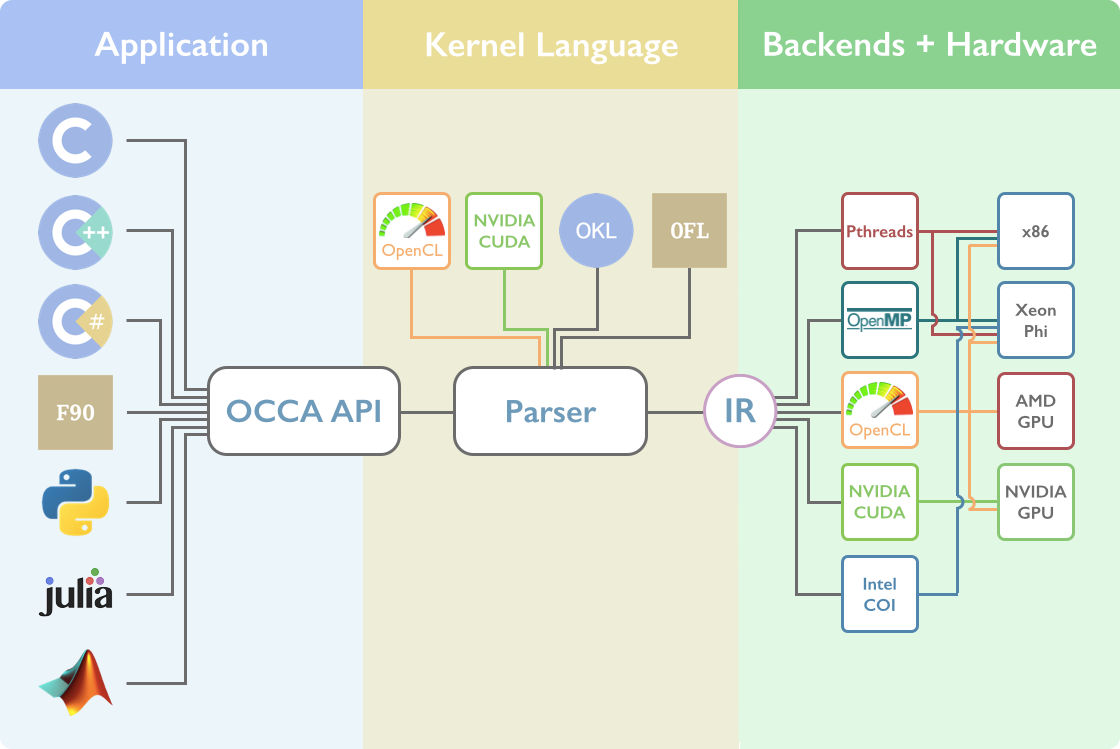
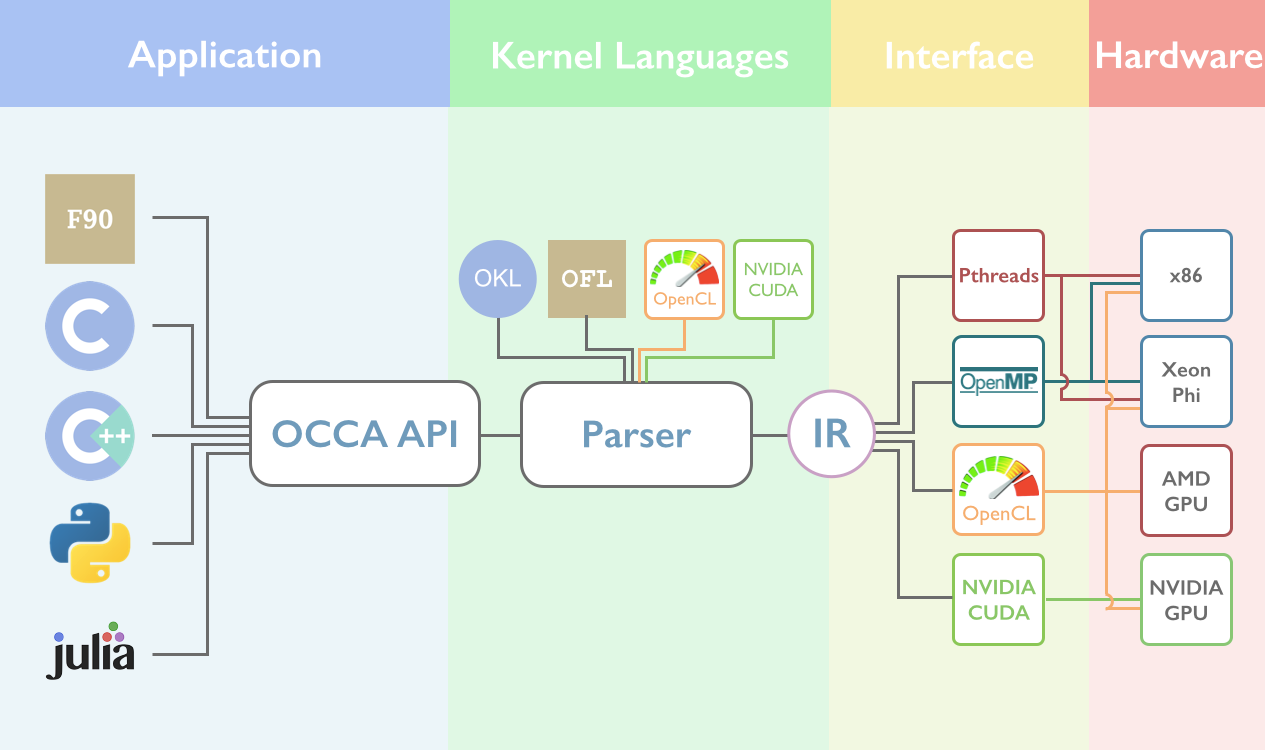
[Projects] Updated OCCA image

diff --git a/index.html b/index.html
@@ -10,4 +10,4 @@ document.write('<script src="' + jQuery + '"><\/script>');
     }());
 </script><script type="text/javascript" src="/library/js/jquery.min.js"></script><script type="text/javascript" src="/library/js/jquery.history.min.js"></script><script type="text/javascript" src="/library/semantic/semantic.min.js"></script><script type="text/javascript" src="/library/highlight/highlight.pack.js"></script><script>hljs.initHighlightingOnLoad();
 </script><script type="text/javascript" src="/js/tools.js?v=1"></script><script type="text/javascript" src="/js/gl.js?v=1"></script><script type="text/javascript" src="/js/main.js?v=2"></script><script>applyMini($(window));
-</script></head><body><div id="id_bodyWrapper"><div id="id_bodyWrapper2"><div id="id_body" class="fixed body"><h2 class="ui dividing header"><img src="/images/profile/david.jpg?v=1" class="ui rounded image avatar">David Medina &nbsp; | &nbsp;<div style="position: relative; display: inline-block; height: 30px; width: 220px; font-size: 20px;"><div style="position: absolute; top: 2px;"><span style="color: #2BB399" class="highlight">Vacation</span> &nbsp; <span style="color: #2BB399" class="highlight">(•̀ᴗ•́)و ̑</span></div></div><div class="contact info"><a href="mailto:dmed256@gmail.com?Subject=Hi" tooltip="Email" class="tooltip"><i class="large mail outline link icon"></i></a><a href="https://github.com/dmed256" tooltip="Github" class="tooltip"><i class="large github square link icon"></i></a><a href="https://twitter.com/dmed256?&gt;" tooltip="Twitter" class="tooltip"><i class="large twitter outline link icon"></i></a><a href="http://www.linkedin.com/in/dmed256" tooltip="LinkedIn" class="tooltip"><i class="large linkedin square sign link icon"></i></a></div></h2><div class="sidebar"><img src="/images/profile/david.jpg?v=1" style="width: 200px; border-radius: 20px; margin: auto" class="ui rounded image"><h4 style="margin-bottom: 10px" class="ui dividing header">About me</h4>I'm really passionate about <span style="color: #2BB399" class="highlight">coding</span> and like to get out of my comfort zone for learning and producing neat stuff<br><br>I've been lucky to work with an awesome advisor, <a href="http://tcew.github.io/" class="link">Professor Warburton</a>, and folks from national labs (LLNL, ANL)<h4 style="margin-bottom: 10px" class="ui dividing header">Projects</h4>I'm currently focusing on <a href="http://libocca.org/" class="link">OCCA</a><h4 style="margin-bottom: 10px" class="ui dividing header">Contact Info</h4>If anything I do is interesting to you, it would make my day to chat about it!<div style="width: 200px; margin: auto; padding: 20px 0 20px 0; text-align: center"><a href="mailto:dmed256@gmail.com?Subject=Hi" tooltip="Email" class="tooltip"><i class="large mail outline link icon"></i></a><a href="https://github.com/dmed256" tooltip="Github" class="tooltip"><i class="large github square link icon"></i></a><a href="https://twitter.com/dmed256?&gt;" tooltip="Twitter" class="tooltip"><i class="large twitter outline link icon"></i></a><a href="http://www.linkedin.com/in/dmed256" tooltip="LinkedIn" class="tooltip"><i class="large linkedin square sign link icon"></i></a></div></div><div id="id_bodyContainer" class="container"><div id="id_bodyHeader"><div class="ui tabular menu main"><a data-tab="blog" class="item active">Blog</a><a data-tab="events" class="item">Events</a><a data-tab="upcoming" class="item">Upcoming</a><a data-tab="projects" class="item">Projects</a></div></div><div id="id_bodyTopShadow"></div><div id="id_bodyTLShadowCorner"></div><div data-tab="blog" class="ui tab"><div class="tabBodyContainer2"><div class="tabBodyContainer"><div class="feed ui raised segment orange"><div class="container"><div class="ui ribbon label">July 6</div><h4 class="ui dividing header">0x001: Programming Padawan</h4></div><div style="max-height: 9999999px"> Video games were my inspiration for learning how to program. Excited about making the next Final Fantasy or World of Warcraft, I took one of the <span style="color: #2BB399" class="highlight">&quot;Computer Science 101&quot;</span> classes during my undergraduate studies. Oh man was that a let down (゜-゜).<br><a href="/posts/0x001/post" class="link">Read More . . .</a></div><div class="corner"></div></div><div id="id_endOfBlog"></div></div></div></div><div data-tab="events" class="ui tab"><div class="tabBodyContainer2"><div class="tabBodyContainer"><div class="feed ui raised segment green"><div class="container"><div class="ui ribbon label">June 1 - July 11</div><h4 class="ui dividing header">Visiting Researcher at LLNL</h4></div><div style="max-height: 9999999px">Continue working on OCCA (thesis work) and collaborate with LLNL guys in ASQ/CASC.</div><div class="corner"></div></div><div class="feed ui raised segment gray"><div class="container"><div class="ui ribbon label">May 26</div><h4 class="ui dividing header">PhD Defense</h4></div><div style="max-height: 9999999px">OKL: A Unified Language for Parallel Architectures</div><div class="corner"></div></div><div class="feed ui raised segment purple"><div class="container"><div class="ui ribbon label">May 7</div><h4 class="ui dividing header">Visit to Sandia National Lab: Seminar Talk</h4></div><div style="max-height: 9999999px">OKL: A Unified Language for Parallel Architectures</div><div class="corner"></div></div><div class="feed ui raised segment purple"><div class="container"><div class="ui ribbon label">March 14-15</div><h4 class="ui dividing header">SIAM CSE '15: Talk + Poster</h4></div><div style="max-height: 9999999px">OCCA: An Extensible Portability Layer for Many-core Programming (<a href='/pdfs/talks/cse15.pdf' class='link'>PDF</a>)</div><div class="corner"></div></div><div class="feed ui raised segment purple"><div class="container"><div class="ui ribbon label">March 04-05</div><h4 class="ui dividing header">Rice Oil &amp; Gas 2015: OCCA Tutorial + Talk</h4></div><div style="max-height: 9999999px">OCCA: Portability Layer for Many-core Thread Programming<br>Links to the: <a href='http://libocca.org/talks/riceOG15.pdf' class='link'>Slides</a>, <a href='https://github.com/tcew/OG15' class='link'>Source Code</a></div><div class="corner"></div></div><div class="feed ui raised segment blue"><div class="container"><div class="ui ribbon label">March 03</div><h4 class="ui dividing header">OCCA Tutorials 02: Unified Virtual Address + Managed Memory + Shared Memory</h4></div><div style="max-height: 9999999px"><div class="youtubeContainer2"><div class="youtubeContainer"><iframe src="https://www.youtube.com/embed/9uiw3hzGCl4?autohide=1&amp;controls=1&amp;showinfo=0" allowfullscreen="allowfullscreen" frameborder="0" class="youtube"></iframe></div></div></div><div class="corner"></div></div><div class="feed ui raised segment blue"><div class="container"><div class="ui ribbon label">February 28</div><h4 class="ui dividing header">OCCA Tutorials 01: Installation + Introduction</h4></div><div style="max-height: 9999999px"><div class="youtubeContainer2"><div class="youtubeContainer"><iframe src="https://www.youtube.com/embed/XYf73mqQBLE?autohide=1&amp;controls=1&amp;showinfo=0" allowfullscreen="allowfullscreen" frameborder="0" class="youtube"></iframe></div></div></div><div class="corner"></div></div><div class="feed ui raised segment purple"><div class="container"><div class="ui ribbon label">February 11</div><h4 class="ui dividing header">Visit to Chevron: Talk</h4></div><div style="max-height: 9999999px">OKL: A Unified Language for Parallel Architectures</div><div class="corner"></div></div><div class="feed ui raised segment gray"><div class="container"><div class="ui ribbon label">February 04</div><h4 class="ui dividing header">PhD Proposal</h4></div><div style="max-height: 9999999px">OKL: A Unified Language for Parallel Architectures</div><div class="corner"></div></div><div class="ui horizontal divider feedDivider">2015</div><div class="feed ui raised segment purple"><div class="container"><div class="ui ribbon label">June 24</div><h4 class="ui dividing header">ICOSAHOM '14: Talk</h4></div><div style="max-height: 9999999px">OCCA: A Unified Approach to Multi-Threading Languages</div><div class="corner"></div></div><div class="feed ui raised segment green"><div class="container"><div class="ui ribbon label">May - August</div><h4 class="ui dividing header">Summer Internship at Shell</h4></div><div style="max-height: 9999999px"><div style="margin-bottom: 5px" class="ui list"><div class="item"><div class="blue bullet"></div>Optimized finite difference codes on multiple architectures (OpenMP, OpenCL, CUDA)</div><div class="item"><div class="blue bullet"></div>Investigated hybrid kernels with portable performance across varying architectures</div></div></div><div class="corner"></div></div><div class="feed ui raised segment gray"><div class="container"><div class="ui ribbon label">April 23</div><h4 class="ui dividing header">Master Thesis Defense</h4></div><div style="max-height: 9999999px">OCCA: A Unified Approach to Multi-Threading Languages (<a href='/pdfs/papers/masters.pdf' class='link'>PDF</a>)</div><div class="corner"></div></div><div class="feed ui raised segment purple"><div class="container"><div class="ui ribbon label">March 06</div><h4 class="ui dividing header">Rice Oil &amp; Gas Workshop '14: Poster</h4></div><div style="max-height: 9999999px">OCCA: A Unified Approach to Multi-Threading Languages</div><div class="corner"></div></div><div class="ui horizontal divider feedDivider">2014</div><div class="feed ui raised segment green"><div class="container"><div class="ui ribbon label">May - August</div><h4 class="ui dividing header">Summer Internship at Shell</h4></div><div style="max-height: 9999999px">Worked on numerical methods in parallel architectures (OpenMP, OpenCL, CUDA)</div><div class="corner"></div></div><div class="feed ui raised segment gray"><div class="container"><div class="ui ribbon label">January</div><h4 class="ui dividing header">PASI: Workshop on Tsunami Modeling (NSF/DOE-Funded Travel Grant)</h4></div><div style="max-height: 9999999px"><div style="margin-bottom: 5px" class="ui list"><div class="item"><div class="blue bullet"></div>Attended multiple workshops and talks about tsunami modeling</div><div class="item"><div class="blue bullet"></div>Lab co-coordinator to teach OpenCL/OpenGL interop for applying and visualizing finite difference simulations</div></div></div><div class="corner"></div></div><div class="ui horizontal divider feedDivider">2013</div></div></div></div><div data-tab="upcoming" class="ui tab"><div class="tabBodyContainer2"><div class="tabBodyContainer"><div class="feed ui raised segment green"><div class="container"><div class="ui ribbon label">August 3</div><h4 class="ui dividing header">Two Sigma</h4></div><div style="max-height: 9999999px">Start working =)</div><div class="corner"></div></div></div></div></div><div data-tab="projects" class="ui tab"><div class="tabBodyContainer2"><div class="tabBodyContainer"><div style="padding: 0px 40px 0px 40px; max-height: 9999999px;"><h2 class="ui dividing header"><a href="http://libocca.org/" class="link">OCCA</a></h2><a href="http://libocca.org"><img src="/images/projects/occa/occaFlow.png" style="display: block; max-width: 700px; width: 100%; height: auto; margin: auto;"></a><div class="indent1"><div style="line-height: 20px"><br></div><span style="color: #2BB399" class="highlight">OCCA</span> is an open-source (<span style="color: #2BB399" class="highlight">MIT license</span>) library used to program current multi-core/many-core architectures.Devices (such as <span style="color: #CF8BC7" class="highlight">CPUs, GPUs, Intel's Xeon Phi, FPGAs</span>, etc) are abstracted using an offload-model for application development and programming for the devices is done through a C-based (<span style="color: #2BB399" class="highlight">OKL</span>) or Fortran-based kernel language (<span style="color: #2BB399" class="highlight">OFL</span>).OCCA gives developers the ability to target devices at run-time by using run-time compilation for device kernels.</div></div><br></div></div></div><div id="id_bodyBLShadowCorner"></div><div id="id_bodyBottomShadow"></div></div></div></div></div><div id="id_footerWrapper"><div id="id_footer"><div id="id_footerName"><a href="/" class="link">David S Medina</a></div><div id="id_footerInfo">&nbsp&nbsp|&nbsp <span style="color: #2BB399" class="highlight">Ping me</span><a href="mailto:dmed256@gmail.com?Subject=Hi" tooltip="Email" class="tooltip"><i class="large mail outline link icon"></i></a><a href="https://github.com/dmed256" tooltip="Github" class="tooltip"><i class="large github square link icon"></i></a><a href="https://twitter.com/dmed256?&gt;" tooltip="Twitter" class="tooltip"><i class="large twitter outline link icon"></i></a><a href="http://www.linkedin.com/in/dmed256" tooltip="LinkedIn" class="tooltip"><i class="large linkedin square sign link icon"></i></a></div></div></div></body></html>
+</script></head><body><div id="id_bodyWrapper"><div id="id_bodyWrapper2"><div id="id_body" class="fixed body"><h2 class="ui dividing header"><img src="/images/profile/david.jpg?v=1" class="ui rounded image avatar">David Medina &nbsp; | &nbsp;<div style="position: relative; display: inline-block; height: 30px; width: 220px; font-size: 20px;"><div style="position: absolute; top: 2px;"><span style="color: #2BB399" class="highlight">Vacation</span> &nbsp; <span style="color: #2BB399" class="highlight">(•̀ᴗ•́)و ̑</span></div></div><div class="contact info"><a href="mailto:dmed256@gmail.com?Subject=Hi" tooltip="Email" class="tooltip"><i class="large mail outline link icon"></i></a><a href="https://github.com/dmed256" tooltip="Github" class="tooltip"><i class="large github square link icon"></i></a><a href="https://twitter.com/dmed256?&gt;" tooltip="Twitter" class="tooltip"><i class="large twitter outline link icon"></i></a><a href="http://www.linkedin.com/in/dmed256" tooltip="LinkedIn" class="tooltip"><i class="large linkedin square sign link icon"></i></a></div></h2><div class="sidebar"><img src="/images/profile/david.jpg?v=1" style="width: 200px; border-radius: 20px; margin: auto" class="ui rounded image"><h4 style="margin-bottom: 10px" class="ui dividing header">About me</h4>I'm really passionate about <span style="color: #2BB399" class="highlight">coding</span> and like to get out of my comfort zone for learning and producing neat stuff<br><br>I've been lucky to work with an awesome advisor, <a href="http://tcew.github.io/" class="link">Professor Warburton</a>, and folks from national labs (LLNL, ANL)<h4 style="margin-bottom: 10px" class="ui dividing header">Projects</h4>I'm currently focusing on <a href="http://libocca.org/" class="link">OCCA</a><h4 style="margin-bottom: 10px" class="ui dividing header">Contact Info</h4>If anything I do is interesting to you, it would make my day to chat about it!<div style="width: 200px; margin: auto; padding: 20px 0 20px 0; text-align: center"><a href="mailto:dmed256@gmail.com?Subject=Hi" tooltip="Email" class="tooltip"><i class="large mail outline link icon"></i></a><a href="https://github.com/dmed256" tooltip="Github" class="tooltip"><i class="large github square link icon"></i></a><a href="https://twitter.com/dmed256?&gt;" tooltip="Twitter" class="tooltip"><i class="large twitter outline link icon"></i></a><a href="http://www.linkedin.com/in/dmed256" tooltip="LinkedIn" class="tooltip"><i class="large linkedin square sign link icon"></i></a></div></div><div id="id_bodyContainer" class="container"><div id="id_bodyHeader"><div class="ui tabular menu main"><a data-tab="blog" class="item active">Blog</a><a data-tab="events" class="item">Events</a><a data-tab="upcoming" class="item">Upcoming</a><a data-tab="projects" class="item">Projects</a></div></div><div id="id_bodyTopShadow"></div><div id="id_bodyTLShadowCorner"></div><div data-tab="blog" class="ui tab"><div class="tabBodyContainer2"><div class="tabBodyContainer"><div class="feed ui raised segment orange"><div class="container"><div class="ui ribbon label">July 6</div><h4 class="ui dividing header">0x001: Programming Padawan</h4></div><div style="max-height: 9999999px"> Video games were my inspiration for learning how to program. Excited about making the next Final Fantasy or World of Warcraft, I took one of the <span style="color: #2BB399" class="highlight">&quot;Computer Science 101&quot;</span> classes during my undergraduate studies. Oh man was that a let down (゜-゜).<br><a href="/posts/0x001/post" class="link">Read More . . .</a></div><div class="corner"></div></div><div id="id_endOfBlog"></div></div></div></div><div data-tab="events" class="ui tab"><div class="tabBodyContainer2"><div class="tabBodyContainer"><div class="feed ui raised segment green"><div class="container"><div class="ui ribbon label">June 1 - July 11</div><h4 class="ui dividing header">Visiting Researcher at LLNL</h4></div><div style="max-height: 9999999px">Continue working on OCCA (thesis work) and collaborate with LLNL guys in ASQ/CASC.</div><div class="corner"></div></div><div class="feed ui raised segment gray"><div class="container"><div class="ui ribbon label">May 26</div><h4 class="ui dividing header">PhD Defense</h4></div><div style="max-height: 9999999px">OKL: A Unified Language for Parallel Architectures</div><div class="corner"></div></div><div class="feed ui raised segment purple"><div class="container"><div class="ui ribbon label">May 7</div><h4 class="ui dividing header">Visit to Sandia National Lab: Seminar Talk</h4></div><div style="max-height: 9999999px">OKL: A Unified Language for Parallel Architectures</div><div class="corner"></div></div><div class="feed ui raised segment purple"><div class="container"><div class="ui ribbon label">March 14-15</div><h4 class="ui dividing header">SIAM CSE '15: Talk + Poster</h4></div><div style="max-height: 9999999px">OCCA: An Extensible Portability Layer for Many-core Programming (<a href='/pdfs/talks/cse15.pdf' class='link'>PDF</a>)</div><div class="corner"></div></div><div class="feed ui raised segment purple"><div class="container"><div class="ui ribbon label">March 04-05</div><h4 class="ui dividing header">Rice Oil &amp; Gas 2015: OCCA Tutorial + Talk</h4></div><div style="max-height: 9999999px">OCCA: Portability Layer for Many-core Thread Programming<br>Links to the: <a href='http://libocca.org/talks/riceOG15.pdf' class='link'>Slides</a>, <a href='https://github.com/tcew/OG15' class='link'>Source Code</a></div><div class="corner"></div></div><div class="feed ui raised segment blue"><div class="container"><div class="ui ribbon label">March 03</div><h4 class="ui dividing header">OCCA Tutorials 02: Unified Virtual Address + Managed Memory + Shared Memory</h4></div><div style="max-height: 9999999px"><div class="youtubeContainer2"><div class="youtubeContainer"><iframe src="https://www.youtube.com/embed/9uiw3hzGCl4?autohide=1&amp;controls=1&amp;showinfo=0" allowfullscreen="allowfullscreen" frameborder="0" class="youtube"></iframe></div></div></div><div class="corner"></div></div><div class="feed ui raised segment blue"><div class="container"><div class="ui ribbon label">February 28</div><h4 class="ui dividing header">OCCA Tutorials 01: Installation + Introduction</h4></div><div style="max-height: 9999999px"><div class="youtubeContainer2"><div class="youtubeContainer"><iframe src="https://www.youtube.com/embed/XYf73mqQBLE?autohide=1&amp;controls=1&amp;showinfo=0" allowfullscreen="allowfullscreen" frameborder="0" class="youtube"></iframe></div></div></div><div class="corner"></div></div><div class="feed ui raised segment purple"><div class="container"><div class="ui ribbon label">February 11</div><h4 class="ui dividing header">Visit to Chevron: Talk</h4></div><div style="max-height: 9999999px">OKL: A Unified Language for Parallel Architectures</div><div class="corner"></div></div><div class="feed ui raised segment gray"><div class="container"><div class="ui ribbon label">February 04</div><h4 class="ui dividing header">PhD Proposal</h4></div><div style="max-height: 9999999px">OKL: A Unified Language for Parallel Architectures</div><div class="corner"></div></div><div class="ui horizontal divider feedDivider">2015</div><div class="feed ui raised segment purple"><div class="container"><div class="ui ribbon label">June 24</div><h4 class="ui dividing header">ICOSAHOM '14: Talk</h4></div><div style="max-height: 9999999px">OCCA: A Unified Approach to Multi-Threading Languages</div><div class="corner"></div></div><div class="feed ui raised segment green"><div class="container"><div class="ui ribbon label">May - August</div><h4 class="ui dividing header">Summer Internship at Shell</h4></div><div style="max-height: 9999999px"><div style="margin-bottom: 5px" class="ui list"><div class="item"><div class="blue bullet"></div>Optimized finite difference codes on multiple architectures (OpenMP, OpenCL, CUDA)</div><div class="item"><div class="blue bullet"></div>Investigated hybrid kernels with portable performance across varying architectures</div></div></div><div class="corner"></div></div><div class="feed ui raised segment gray"><div class="container"><div class="ui ribbon label">April 23</div><h4 class="ui dividing header">Master Thesis Defense</h4></div><div style="max-height: 9999999px">OCCA: A Unified Approach to Multi-Threading Languages (<a href='/pdfs/papers/masters.pdf' class='link'>PDF</a>)</div><div class="corner"></div></div><div class="feed ui raised segment purple"><div class="container"><div class="ui ribbon label">March 06</div><h4 class="ui dividing header">Rice Oil &amp; Gas Workshop '14: Poster</h4></div><div style="max-height: 9999999px">OCCA: A Unified Approach to Multi-Threading Languages</div><div class="corner"></div></div><div class="ui horizontal divider feedDivider">2014</div><div class="feed ui raised segment green"><div class="container"><div class="ui ribbon label">May - August</div><h4 class="ui dividing header">Summer Internship at Shell</h4></div><div style="max-height: 9999999px">Worked on numerical methods in parallel architectures (OpenMP, OpenCL, CUDA)</div><div class="corner"></div></div><div class="feed ui raised segment gray"><div class="container"><div class="ui ribbon label">January</div><h4 class="ui dividing header">PASI: Workshop on Tsunami Modeling (NSF/DOE-Funded Travel Grant)</h4></div><div style="max-height: 9999999px"><div style="margin-bottom: 5px" class="ui list"><div class="item"><div class="blue bullet"></div>Attended multiple workshops and talks about tsunami modeling</div><div class="item"><div class="blue bullet"></div>Lab co-coordinator to teach OpenCL/OpenGL interop for applying and visualizing finite difference simulations</div></div></div><div class="corner"></div></div><div class="ui horizontal divider feedDivider">2013</div></div></div></div><div data-tab="upcoming" class="ui tab"><div class="tabBodyContainer2"><div class="tabBodyContainer"><div class="feed ui raised segment green"><div class="container"><div class="ui ribbon label">August 3</div><h4 class="ui dividing header">Two Sigma</h4></div><div style="max-height: 9999999px">Start working =)</div><div class="corner"></div></div></div></div></div><div data-tab="projects" class="ui tab"><div class="tabBodyContainer2"><div class="tabBodyContainer"><div style="padding: 0px 40px 0px 40px; max-height: 9999999px;"><h2 class="ui dividing header"><a href="http://libocca.org/" class="link">OCCA</a></h2><a href="http://libocca.org"><img src="/images/projects/occa/occaFlow.png?v=1" style="display: block; max-width: 700px; width: 100%; height: auto; margin: auto;"></a><div class="indent1"><div style="line-height: 20px"><br></div><span style="color: #2BB399" class="highlight">OCCA</span> is an open-source (<span style="color: #2BB399" class="highlight">MIT license</span>) library used to program current multi-core/many-core architectures.Devices (such as <span style="color: #CF8BC7" class="highlight">CPUs, GPUs, Intel's Xeon Phi, FPGAs</span>, etc) are abstracted using an offload-model for application development and programming for the devices is done through a C-based (<span style="color: #2BB399" class="highlight">OKL</span>) or Fortran-based kernel language (<span style="color: #2BB399" class="highlight">OFL</span>).OCCA gives developers the ability to target devices at run-time by using run-time compilation for device kernels.</div></div><br></div></div></div><div id="id_bodyBLShadowCorner"></div><div id="id_bodyBottomShadow"></div></div></div></div></div><div id="id_footerWrapper"><div id="id_footer"><div id="id_footerName"><a href="/" class="link">David S Medina</a></div><div id="id_footerInfo">&nbsp&nbsp|&nbsp <span style="color: #2BB399" class="highlight">Ping me</span><a href="mailto:dmed256@gmail.com?Subject=Hi" tooltip="Email" class="tooltip"><i class="large mail outline link icon"></i></a><a href="https://github.com/dmed256" tooltip="Github" class="tooltip"><i class="large github square link icon"></i></a><a href="https://twitter.com/dmed256?&gt;" tooltip="Twitter" class="tooltip"><i class="large twitter outline link icon"></i></a><a href="http://www.linkedin.com/in/dmed256" tooltip="LinkedIn" class="tooltip"><i class="large linkedin square sign link icon"></i></a></div></div></div></body></html>
